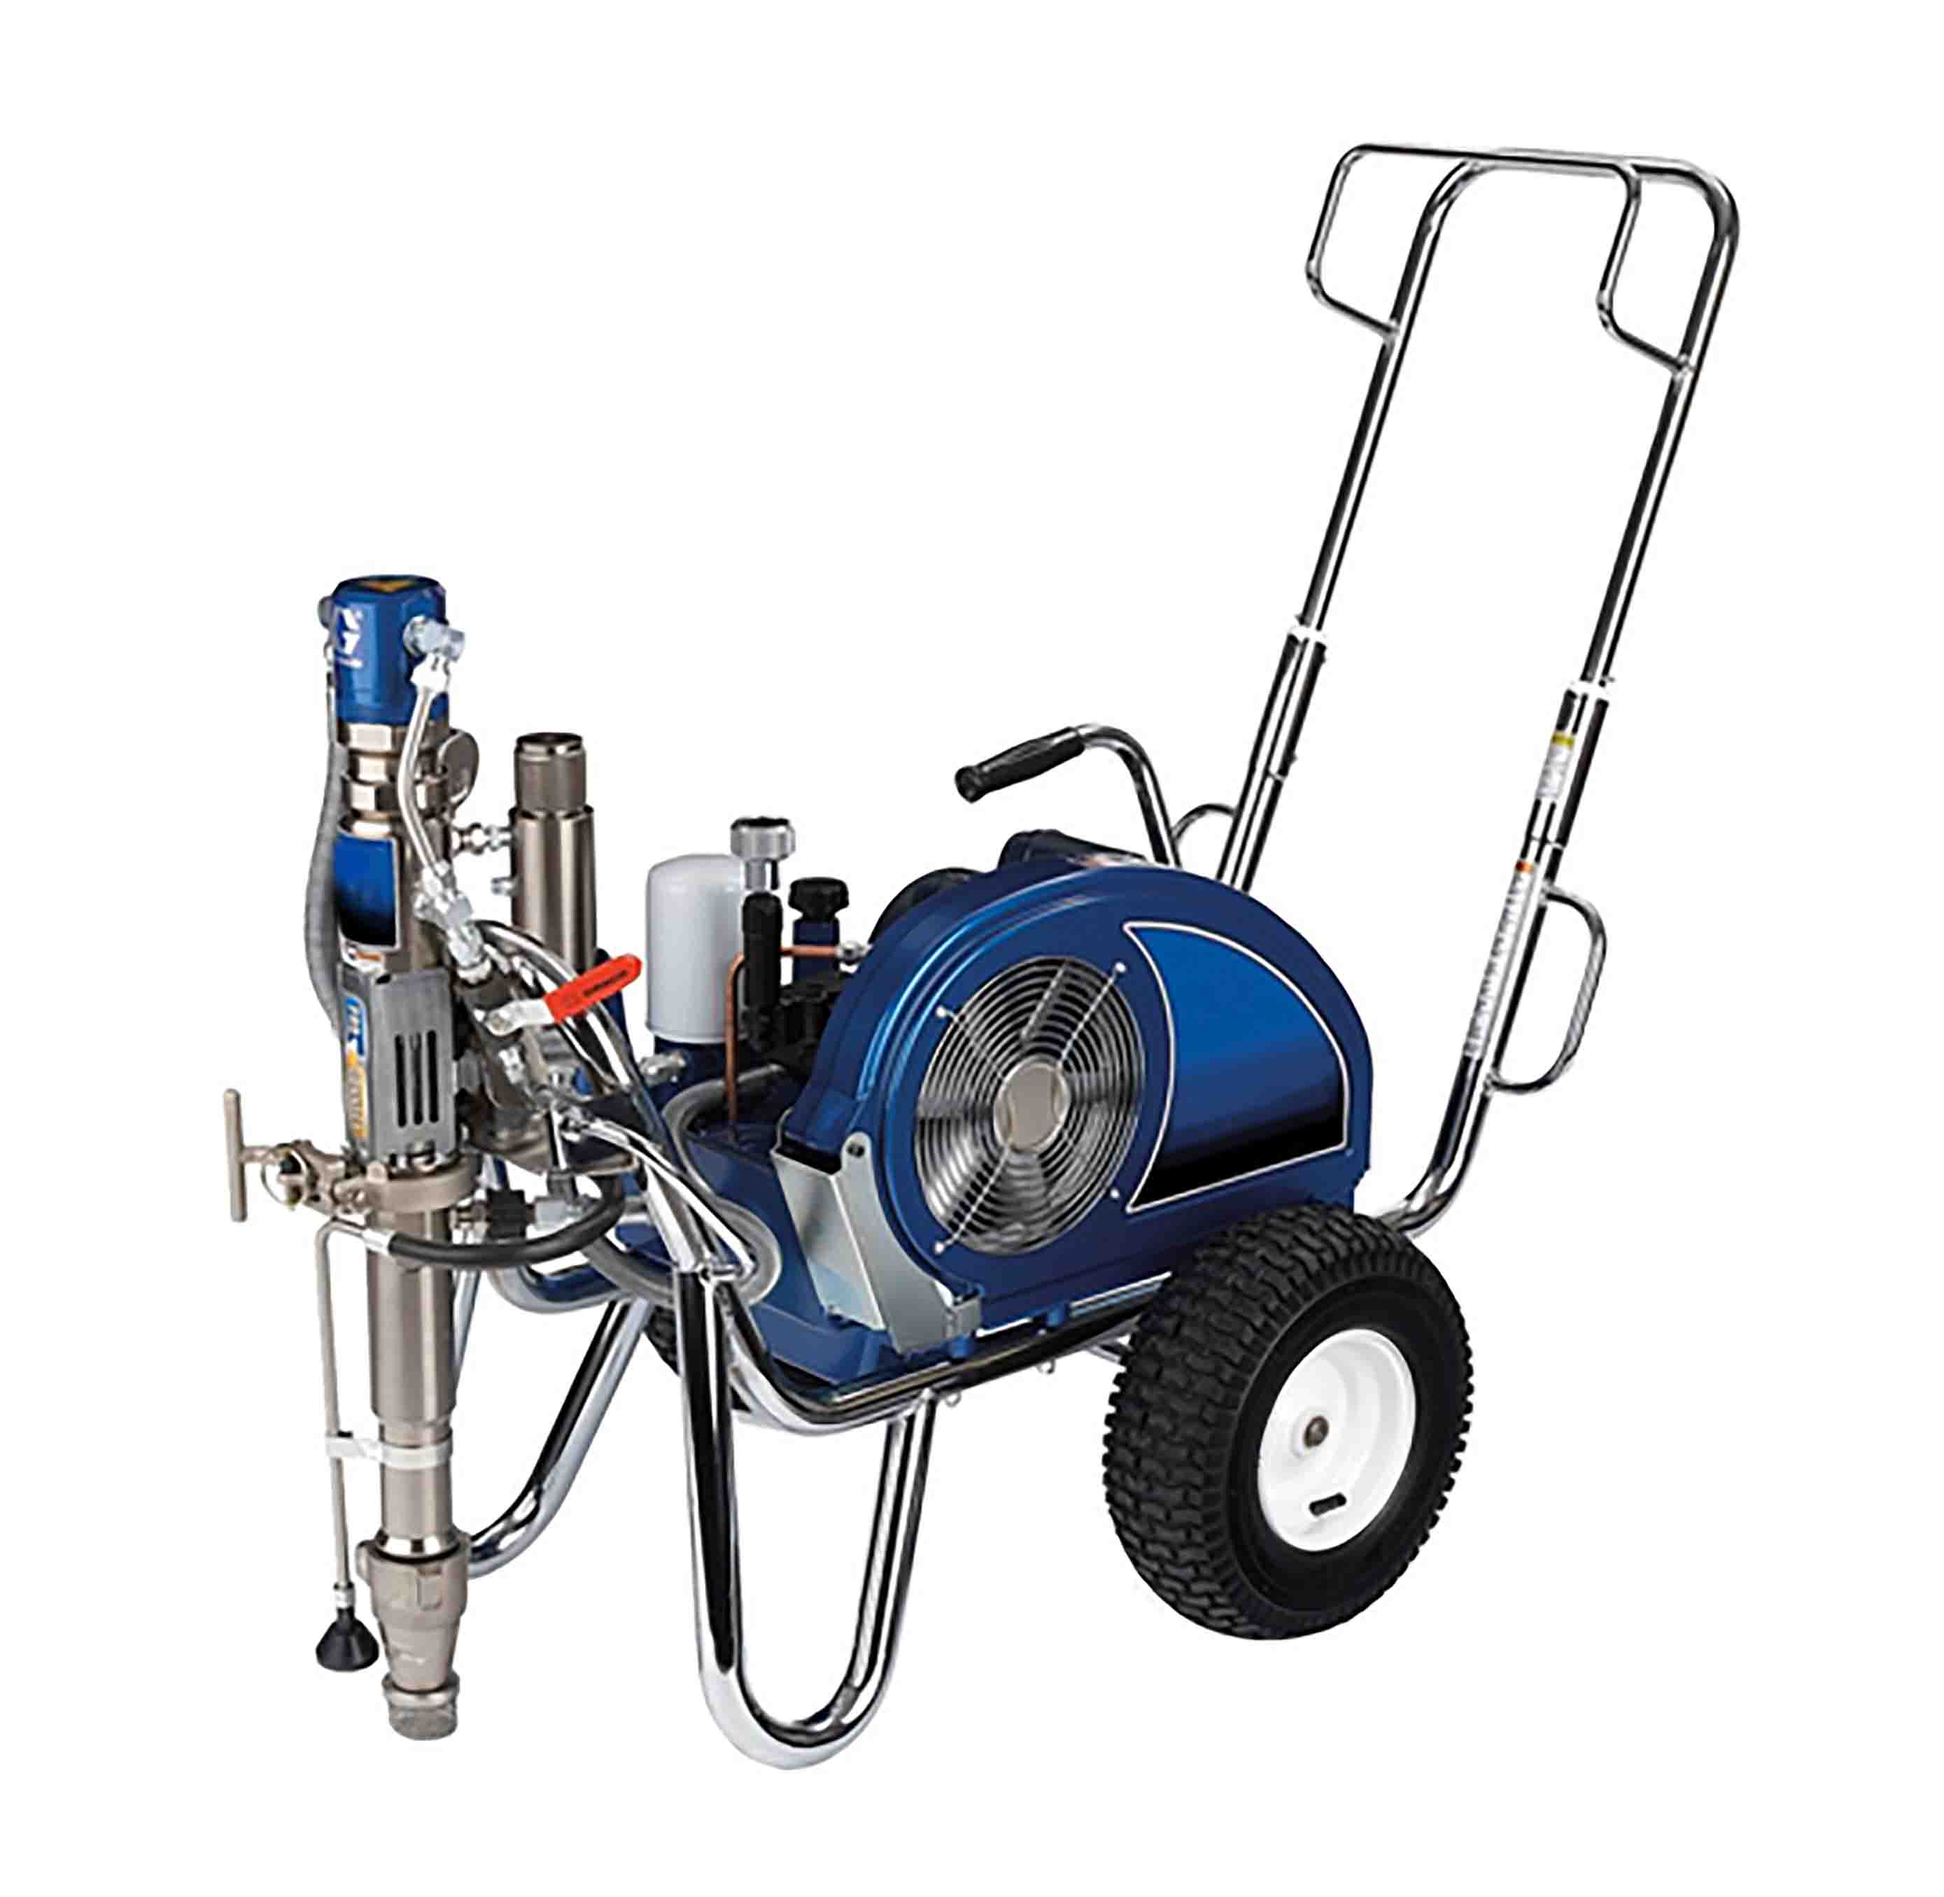
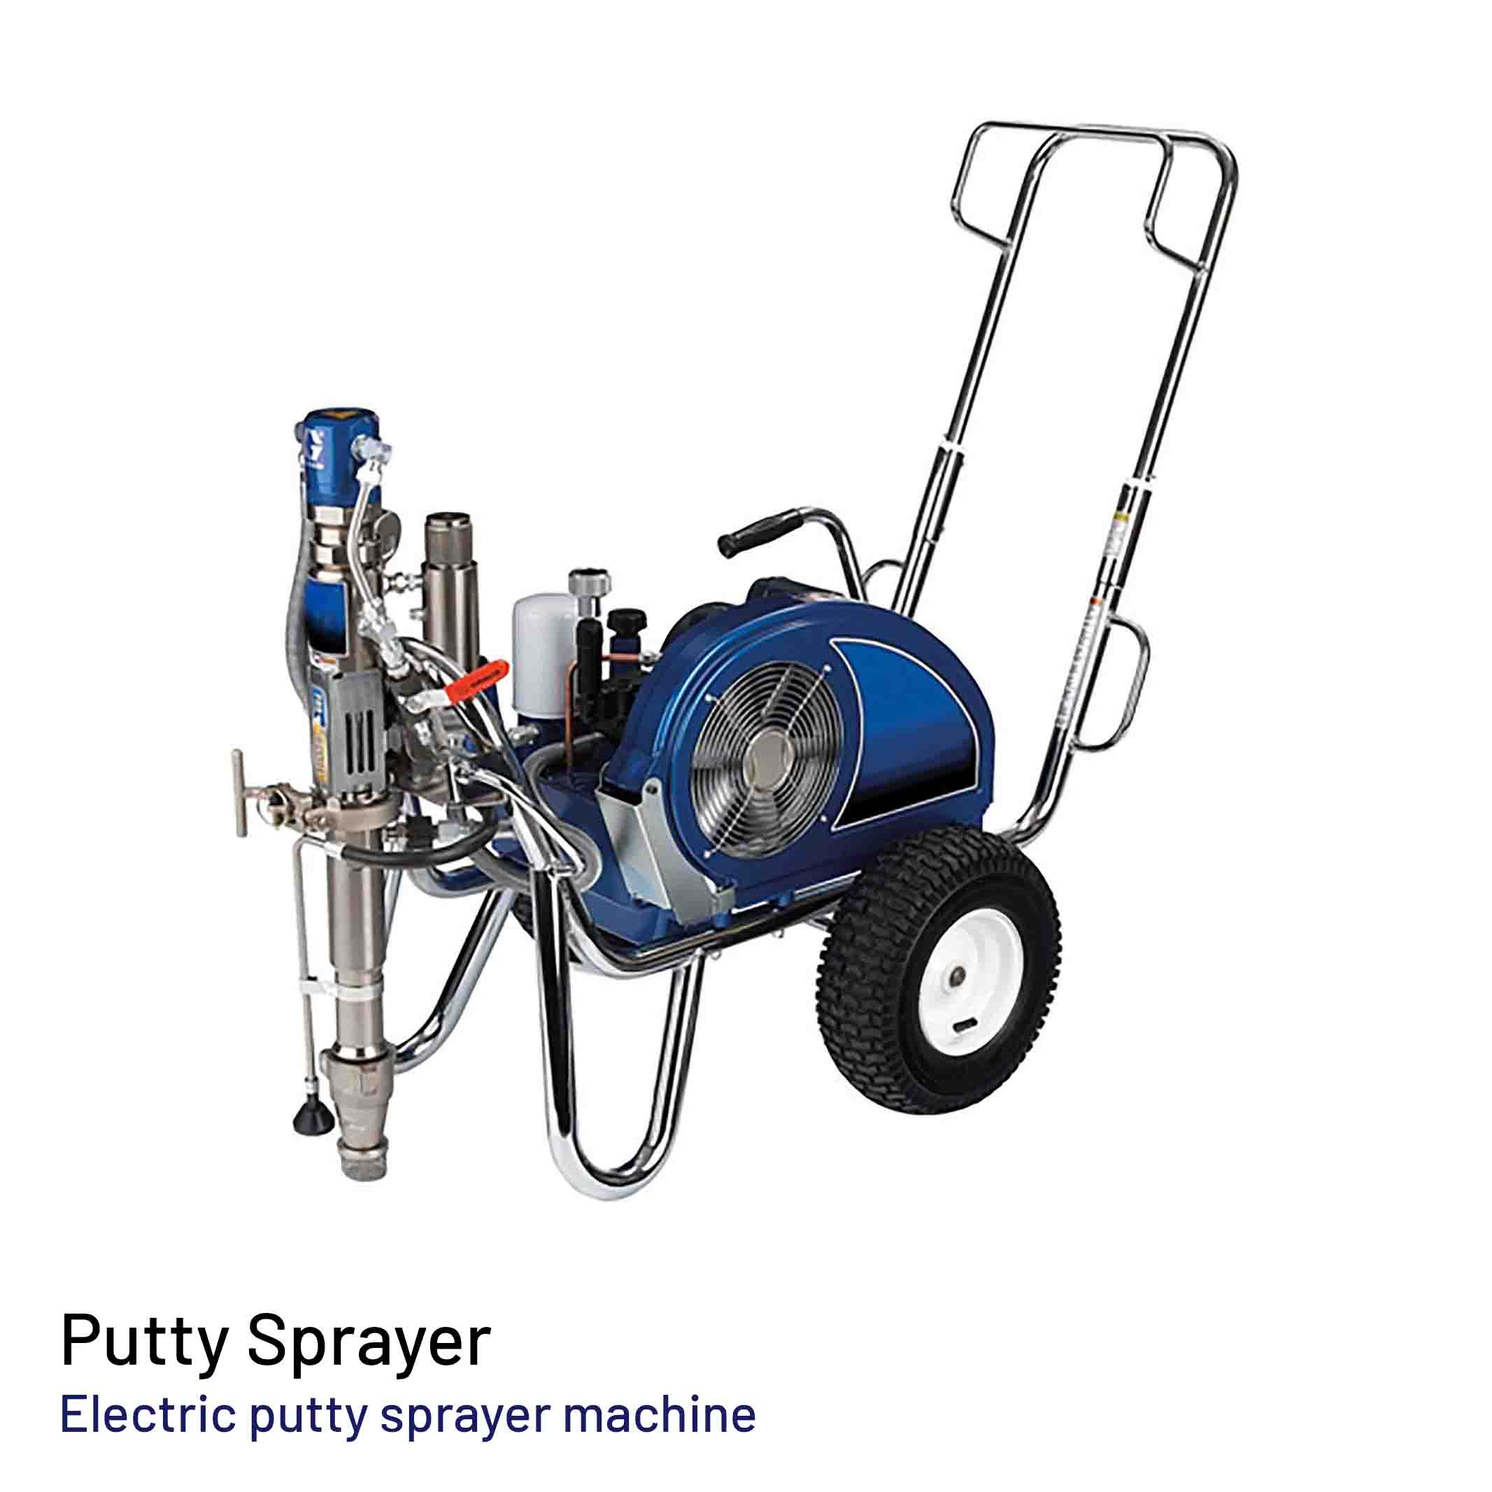
updated

Changed region(s): [[0.0309, 0.0619, 0.8973, 0.9592]]

diff --git a/index.html b/index.html
@@ -432,7 +432,7 @@
         </h4>
         <a
           class="btn btn-primary btn-xl"
-          href="new1.html"
+          href=""
           >What's new</a
         >
       </div>
@@ -580,12 +580,52 @@
 
 
 </style>
-<section class="content-section bg-primary text-white">
+<section class="content-section bg-primary text-white" id="tools">
+  
   <div class="container text-center">
-    <h2 class="mb-4">Order Now</h2>
-    <a href="new.html" title="Give me a call"class="btn btn-xl btn-light mr-4">Call now</a>
-   
+    <h2 class="mb-4" style="font-size:3.5rem; font-family: barlow;">Tools for rentals</h2>
+    
   </div>
+<div class="w3-container"style="margin-top: 2rem;">
+  
+
+
+<div class="w3-content w3-section" style="max-width:500px; margin-bottom: 2rem;">
+  <img class="mySlides w3-animate-top" src="img/putty sprayer.jpg" style="width:100% ;">
+  <img class="mySlides w3-animate-bottom" src="img/paint sprayer.jpg" style="width:100%">
+  <img class="mySlides w3-animate-top" src="img/Air compressor.jpg" style="width:100%">
+  <img class="mySlides w3-animate-bottom" src="img/cleaner.jpg" style="width:100%">
+  <img class="mySlides w3-animate-bottom" src="img/putty sander.jpg" style="width:100%">
+  <img class="mySlides w3-animate-top" src="img/sander.jpg" style="width:100%">
+  <img class="mySlides w3-animate-bottom" src="img/vaccum cleaner.jpg" style="width:100%">
+  <img class="mySlides w3-animate-top" src="img/scuffolding.jpg" style="width:100%">
+  
+</div>
+
+<script>
+var myIndex = 0;
+carousel();
+
+function carousel() {
+  var i;
+  var x = document.getElementsByClassName("mySlides");
+  for (i = 0; i < x.length; i++) {
+    x[i].style.display = "none";  
+  }
+  myIndex++;
+  if (myIndex > x.length) {myIndex = 1}    
+  x[myIndex-1].style.display = "block";  
+  setTimeout(carousel, 2500);    
+}
+</script>
+
+<div style="display: flex; justify-content: center; color: white; font-size: 3rem; font-weight: lighter; margin-top: 4rem;">
+Order now
+</div>
+
+  <div  style=" margin-right: auto; margin-left: auto; margin-top: 2rem;" >
+    <p  class="contact-text phone" style="text-align: center; font-family: Font Awesome 5 Free; font-size: 20px; color: rgb(255, 255, 255); font-weight: lighter;"><a href="tel:9446957816" title="Give me a call"><i class="fa fa-phone fa-2x" ></i>&nbsp;&nbsp;&nbsp;&nbsp;&nbsp;&nbsp;&nbsp;&nbsp;&nbsp;</p></a>
+   </div>
 </section>
 
 <!-- End Our Team Section -->
@@ -624,7 +664,7 @@
    </div>
             <div style=" display:flex; justify-content: center; padding-top: 2rem;" >
              <i class="fa fa-phone fa-2x"></i>
-              <i class="&#xe0c8;"></i>
+        
              </div>
              
              <div  style=" margin-right: auto; margin-left: auto;  margin-top: 3rem; " >

diff --git a/css/stylish-portfolio.min.css b/css/stylish-portfolio.min.css
@@ -579,3 +579,11 @@ a:hover {
   width: 320px;
   height: 180px;
 }
+.mySlides {
+  display: none;
+}
+.bottom-left {
+  position: absolute;
+  bottom: 8px;
+  left: 16px;
+}
